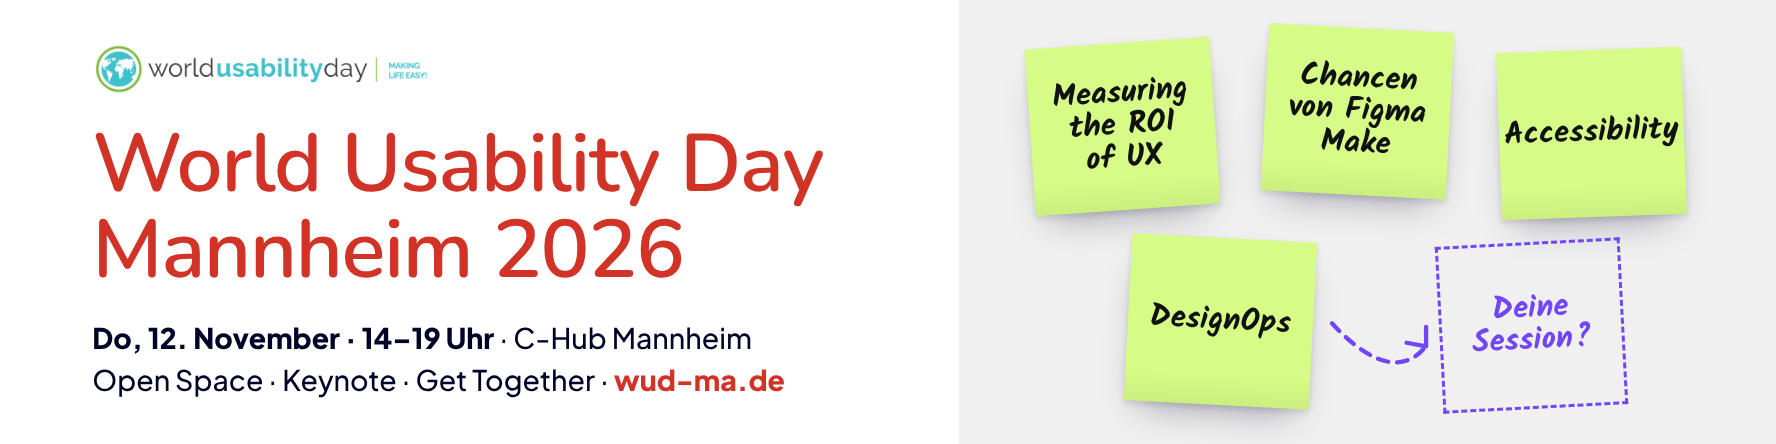
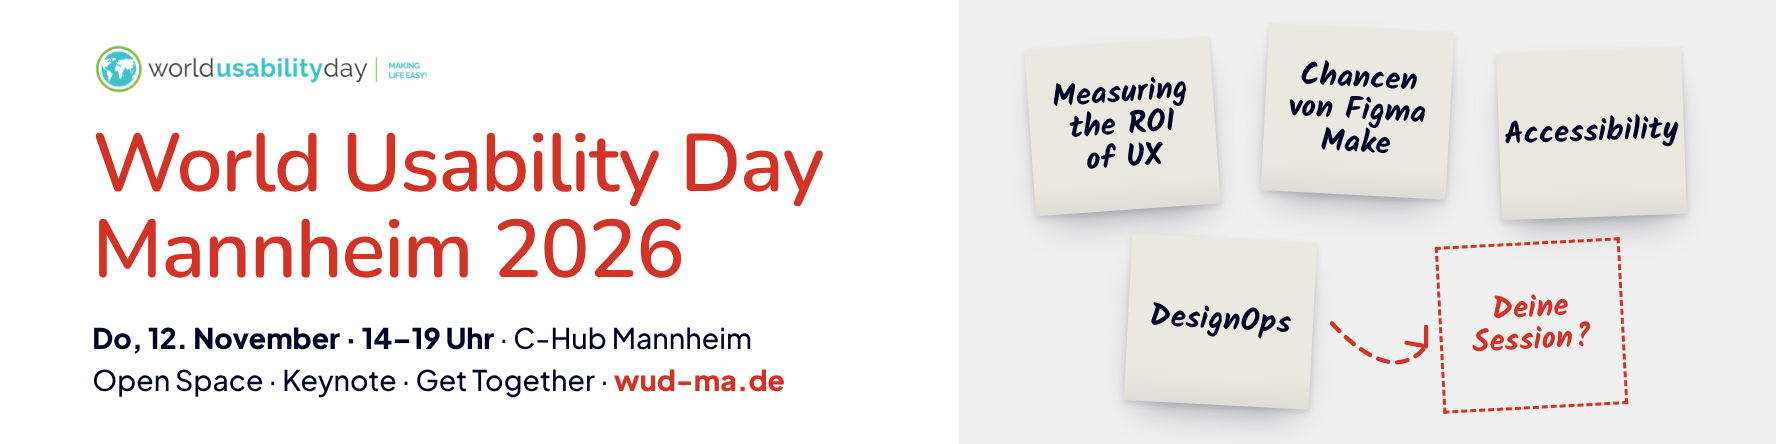
Farben: Post-its in CI-Creme statt Lime, Pfeile & Akzente in Rot statt Lila
Claude-Session: https://claude.ai/code/session_01FdBpF3p1XTs9Kowkd1XXbf

diff --git a/assets/src/brand.css b/assets/src/brand.css
@@ -20,8 +20,7 @@
   --grey: #F0F0F0;     /* Sektionshintergrund */
   --teal: #40C0CB;     /* Akzent (Logo) */
   --green: #80BD42;    /* Akzent (Logo) */
-  --lime: #D6FB86;     /* Post-its (Illustrationen) */
-  --purple: #7046F8;   /* Pfeile (Illustrationen) */
+  --note: #EBE8E0;     /* Post-its = CI-Sekundärfarbe Creme */
   --white: #FFFFFF;
 
   --font-head: "Noway Round", "Nunito", sans-serif;
@@ -39,10 +38,10 @@ body { font-family: var(--font-body); color: var(--navy); overflow: hidden; }
 /* Post-it */
 .sticky {
   position: absolute;
-  background: var(--lime);
+  background: var(--note);
   font-family: var(--font-hand);
   font-weight: 700;
-  color: #111;
+  color: var(--navy);
   line-height: 1.05;
   display: flex; align-items: center; justify-content: center; text-align: center;
   box-shadow: 0 0.6em 1.2em -0.5em rgba(0,4,39,.35), 0 0.1em 0.2em rgba(0,4,39,.12);
@@ -51,7 +50,7 @@ body { font-family: var(--font-body); color: var(--navy); overflow: hidden; }
   content: ""; position: absolute; inset: auto 0 0 0; height: 18%;
   background: linear-gradient(to bottom, rgba(255,255,255,0), rgba(0,0,0,.05));
 }
-.sticky.dashed { background: transparent; box-shadow: none; border: 0.09em dashed var(--purple); color: var(--purple); }
+.sticky.dashed { background: transparent; box-shadow: none; border: 0.09em dashed var(--red); color: var(--red); }
 .sticky.dashed::after { display: none; }
 
 /* Button / Pille */
@@ -61,5 +60,5 @@ body { font-family: var(--font-body); color: var(--navy); overflow: hidden; }
   font-family: var(--font-body); font-weight: 700;
 }
 
-.arrow path { fill: none; stroke: var(--purple); stroke-linecap: round; }
-.arrow .tip { fill: none; stroke: var(--purple); stroke-linecap: round; stroke-linejoin: round; }
+.arrow path { fill: none; stroke: var(--red); stroke-linecap: round; }
+.arrow .tip { fill: none; stroke: var(--red); stroke-linecap: round; stroke-linejoin: round; }

diff --git a/assets/src/flyer-a5.html b/assets/src/flyer-a5.html
@@ -38,7 +38,7 @@
   .back .lead { margin-top: 3mm; font-size: 3.5mm; line-height: 1.5; }
   .steps { margin-top: 5mm; display: grid; grid-template-columns: 1fr 1fr; gap: 4mm 5mm; }
   .step { display: flex; gap: 3mm; align-items: flex-start; }
-  .step .num { flex: none; width: 10mm; height: 10mm; background: var(--lime); font-family: var(--font-hand); font-weight: 700; font-size: 6mm;
+  .step .num { flex: none; width: 10mm; height: 10mm; background: var(--note); font-family: var(--font-hand); font-weight: 700; font-size: 6mm;
                display: flex; align-items: center; justify-content: center; transform: rotate(-4deg);
                box-shadow: 0 1.2mm 2mm -1mm rgba(0,4,39,.35); }
   .step h3 { font-family: var(--font-body); font-size: 3.5mm; font-weight: 800; margin-bottom: .8mm; }

diff --git a/assets/src/profilbild.html b/assets/src/profilbild.html
@@ -17,7 +17,7 @@
   }
   .note .wud { font-size: 230px; line-height: .9; letter-spacing: .01em; }
   .note .city { font-size: 104px; line-height: 1; }
-  .note .year { font-size: 64px; color: var(--purple); line-height: 1; margin-top: 10px; }
+  .note .year { font-size: 64px; color: var(--red); line-height: 1; margin-top: 10px; }
 </style>
 </head>
 <body>

diff --git a/README.md b/README.md
@@ -45,8 +45,8 @@ Außerdem: [`assets/kalender/wud-mannheim-2026.ics`](assets/kalender/wud-mannhei
 | Headlines, Buttons | `#D13327` Rot |
 | Text, Primär | `#000427` Navy |
 | Flächen | `#F0F0F0` Hellgrau · `#EBE8E0` Creme |
-| Post-its (aus den Website-Illustrationen) | `#D6FB86` Lime |
-| Pfeile (aus den Website-Illustrationen) | `#7046F8` Lila |
+| Post-its | `#EBE8E0` Creme (CI-Sekundärfarbe) |
+| Pfeile, gestrichelte „Deine Session?“-Karte | `#D13327` Rot |
 | Logo-Akzente | `#40C0CB` Türkis · `#80BD42` Grün |
 
 **Schriften:** Headlines im CI = *Noway Round* · Fließtext = *Plus Jakarta Sans* · Post-its = *Kalam* (Handschrift)
